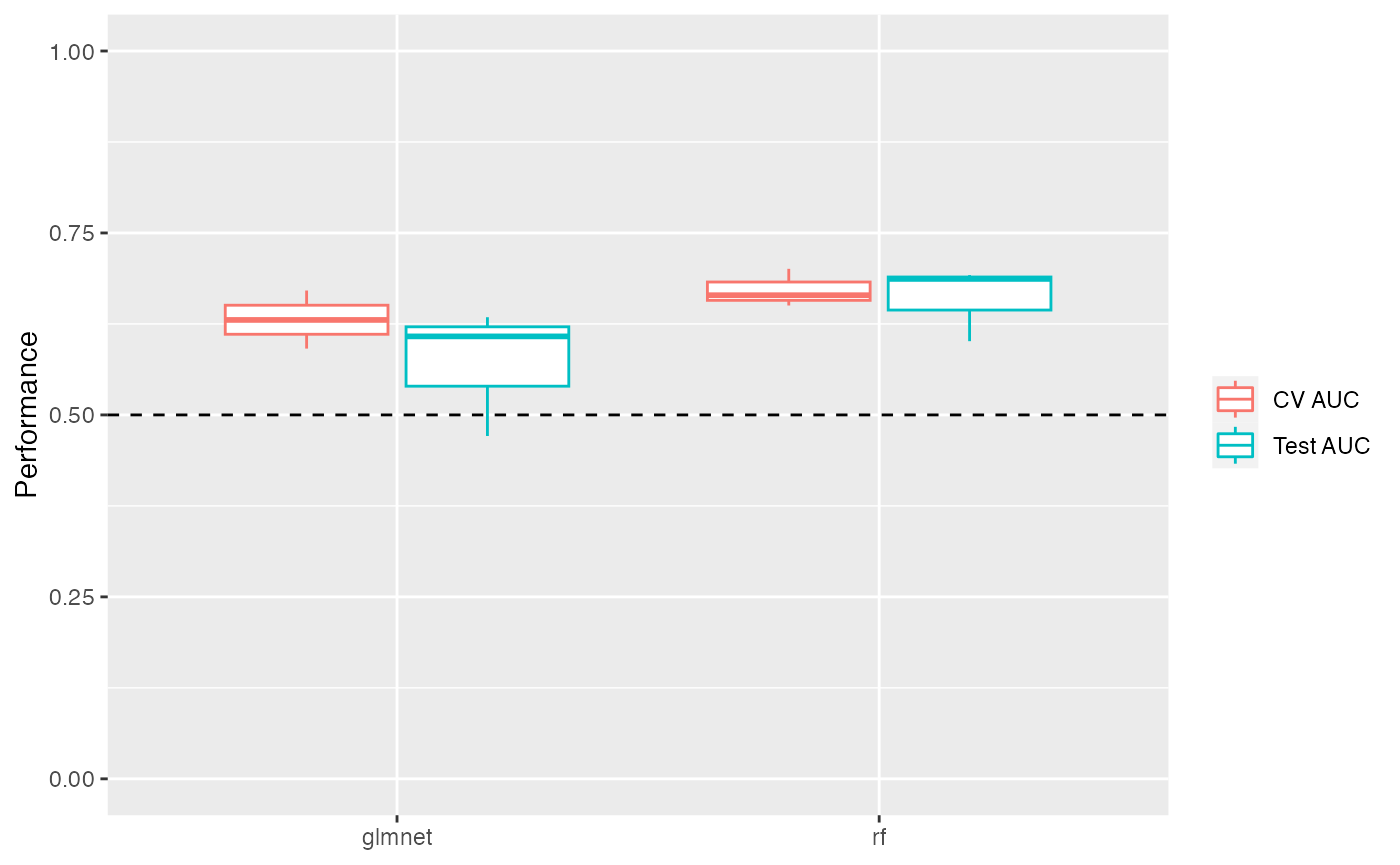
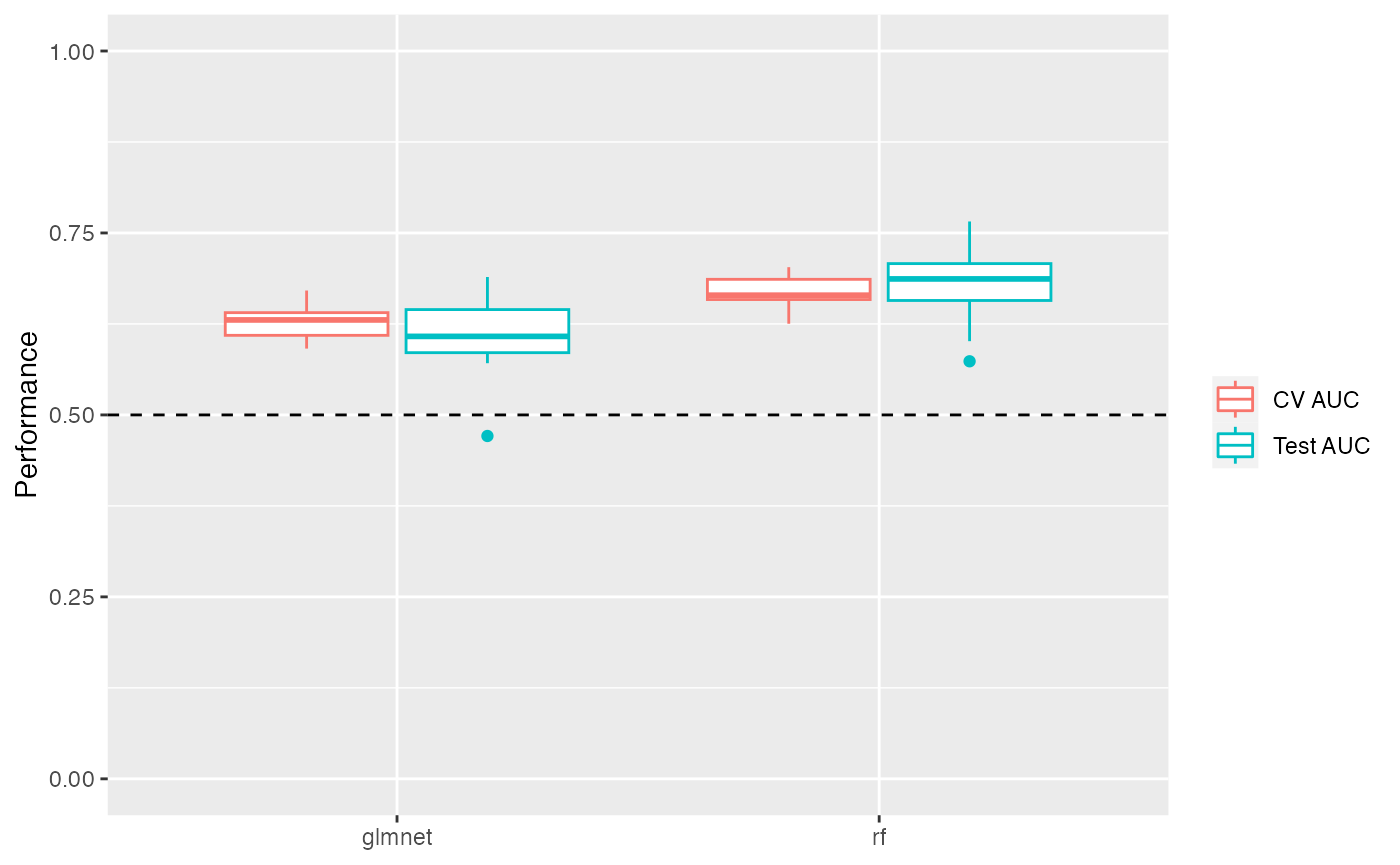
pkgdown::build_article('parallel')

diff --git a/docs/dev/articles/parallel.html b/docs/dev/articles/parallel.html
@@ -99,10 +99,11 @@ Sovacool</h4>
     
 <p>In this tutorial, we show how you can speed up pre-processing, model
 training, and feature importance steps for individual runs, as well as
-how to train multiple models in parallel within R. However, we highly
-recommend using a workflow manager such as Snakemake rather than
-parallelizing within a single R session. Jump to the section <a href="#parallelizing-with-snakemake">Parallelizing with Snakemake</a>
-below if you’re interested in skipping right to our best
+how to train multiple models in parallel within R and visualize the
+results. However, we highly recommend using a workflow manager such as
+Snakemake rather than parallelizing within a single R session. Jump to
+the section <a href="#parallelizing-with-snakemake">Parallelizing with
+Snakemake</a> below if you’re interested in skipping right to our best
 recommendation.</p>
 <div class="sourceCode" id="cb1"><pre class="downlit sourceCode r">
 <code class="sourceCode R"><span><span class="kw"><a href="https://rdrr.io/r/base/library.html" class="external-link">library</a></span><span class="op">(</span><span class="va"><a href="https://www.schlosslab.org/mikropml/" class="external-link">mikropml</a></span><span class="op">)</span></span>
@@ -138,18 +139,7 @@ cases.</p>
 they will run certain tasks in parallel.</p>
 <div class="sourceCode" id="cb3"><pre class="downlit sourceCode r">
 <code class="sourceCode R"><span><span class="va">otu_data_preproc</span> <span class="op">&lt;-</span> <span class="fu"><a href="../reference/preprocess_data.html">preprocess_data</a></span><span class="op">(</span><span class="va">otu_mini_bin</span>, <span class="st">"dx"</span><span class="op">)</span><span class="op">$</span><span class="va">dat_transformed</span></span>
-<span><span class="co">#&gt; Using 'dx' as the outcome column.</span></span>
-<span><span class="va">result1</span> <span class="op">&lt;-</span> <span class="fu"><a href="../reference/run_ml.html">run_ml</a></span><span class="op">(</span><span class="va">otu_data_preproc</span>, <span class="st">"glmnet"</span><span class="op">)</span></span>
-<span><span class="co">#&gt; Using 'dx' as the outcome column.</span></span>
-<span><span class="co">#&gt; Training the model...</span></span>
-<span><span class="co">#&gt; Loading required package: ggplot2</span></span>
-<span><span class="co">#&gt; Loading required package: lattice</span></span>
-<span><span class="co">#&gt; </span></span>
-<span><span class="co">#&gt; Attaching package: 'caret'</span></span>
-<span><span class="co">#&gt; The following object is masked from 'package:mikropml':</span></span>
-<span><span class="co">#&gt; </span></span>
-<span><span class="co">#&gt;     compare_models</span></span>
-<span><span class="co">#&gt; Training complete.</span></span></code></pre></div>
+<span><span class="va">result1</span> <span class="op">&lt;-</span> <span class="fu"><a href="../reference/run_ml.html">run_ml</a></span><span class="op">(</span><span class="va">otu_data_preproc</span>, <span class="st">"glmnet"</span>, seed <span class="op">=</span> <span class="fl">2019</span><span class="op">)</span></span></code></pre></div>
 <p>There’s a also a parallel version of the <code>rf</code> engine
 called <code>parRF</code> which trains the trees in the forest in
 parallel. See the <a href="https://topepo.github.io/caret/train-models-by-tag.html#Random_Forest" class="external-link">caret
@@ -167,16 +157,7 @@ multiple seeds using <code>future_lapply()</code>:</p>
 <code class="sourceCode R"><span><span class="co"># NOTE: use more seeds for real-world data</span></span>
 <span><span class="va">results_multi</span> <span class="op">&lt;-</span> <span class="fu">future.apply</span><span class="fu">::</span><span class="fu"><a href="https://future.apply.futureverse.org/reference/future_lapply.html" class="external-link">future_lapply</a></span><span class="op">(</span><span class="fu"><a href="https://rdrr.io/r/base/seq.html" class="external-link">seq</a></span><span class="op">(</span><span class="fl">100</span>, <span class="fl">102</span><span class="op">)</span>, <span class="kw">function</span><span class="op">(</span><span class="va">seed</span><span class="op">)</span> <span class="op">{</span></span>
 <span>  <span class="fu"><a href="../reference/run_ml.html">run_ml</a></span><span class="op">(</span><span class="va">otu_data_preproc</span>, <span class="st">"glmnet"</span>, seed <span class="op">=</span> <span class="va">seed</span><span class="op">)</span></span>
-<span><span class="op">}</span>, future.seed <span class="op">=</span> <span class="cn">TRUE</span><span class="op">)</span></span>
-<span><span class="co">#&gt; Using 'dx' as the outcome column.</span></span>
-<span><span class="co">#&gt; Training the model...</span></span>
-<span><span class="co">#&gt; Training complete.</span></span>
-<span><span class="co">#&gt; Using 'dx' as the outcome column.</span></span>
-<span><span class="co">#&gt; Training the model...</span></span>
-<span><span class="co">#&gt; Training complete.</span></span>
-<span><span class="co">#&gt; Using 'dx' as the outcome column.</span></span>
-<span><span class="co">#&gt; Training the model...</span></span>
-<span><span class="co">#&gt; Training complete.</span></span></code></pre></div>
+<span><span class="op">}</span>, future.seed <span class="op">=</span> <span class="cn">TRUE</span><span class="op">)</span></span></code></pre></div>
 <p>Each call to <code><a href="../reference/run_ml.html">run_ml()</a></code> with a different seed uses a
 different random split of the data into training and testing sets. Since
 we are using seeds, we must set <code>future.seed</code> to
@@ -190,7 +171,7 @@ performance.</p>
 <code>future.apply</code> package to <code><a href="../reference/run_ml.html">run_ml()</a></code> in parallel,
 but you can accomplish the same thing with parallel versions of the
 <code><a href="https://purrr.tidyverse.org/reference/map.html" class="external-link">purrr::map()</a></code> functions using the <code>furrr</code> package
-(e.g. <code>furrr::future_map_dfr()</code>).</p>
+(e.g. <code><a href="https://furrr.futureverse.org/reference/future_map.html" class="external-link">furrr::future_map_dfr()</a></code>).</p>
 <p>Extract the performance results and combine into one dataframe for
 all seeds:</p>
 <div class="sourceCode" id="cb5"><pre class="downlit sourceCode r">
@@ -218,7 +199,7 @@ all seeds:</p>
 <div class="sourceCode" id="cb6"><pre class="downlit sourceCode r">
 <code class="sourceCode R"><span><span class="co"># NOTE: use more seeds for real-world data</span></span>
 <span><span class="va">param_grid</span> <span class="op">&lt;-</span> <span class="fu"><a href="https://rdrr.io/r/base/expand.grid.html" class="external-link">expand.grid</a></span><span class="op">(</span></span>
-<span>  seeds <span class="op">=</span> <span class="fu"><a href="https://rdrr.io/r/base/seq.html" class="external-link">seq</a></span><span class="op">(</span><span class="fl">100</span>, <span class="fl">102</span><span class="op">)</span>,</span>
+<span>  seeds <span class="op">=</span> <span class="fu"><a href="https://rdrr.io/r/base/seq.html" class="external-link">seq</a></span><span class="op">(</span><span class="fl">100</span>, <span class="fl">110</span><span class="op">)</span>,</span>
 <span>  methods <span class="op">=</span> <span class="fu"><a href="https://rdrr.io/r/base/c.html" class="external-link">c</a></span><span class="op">(</span><span class="st">"glmnet"</span>, <span class="st">"rf"</span><span class="op">)</span></span>
 <span><span class="op">)</span></span>
 <span><span class="va">results_mtx</span> <span class="op">&lt;-</span> <span class="fu">future.apply</span><span class="fu">::</span><span class="fu"><a href="https://future.apply.futureverse.org/reference/future_mapply.html" class="external-link">future_mapply</a></span><span class="op">(</span></span>
@@ -228,70 +209,122 @@ all seeds:</p>
 <span>  <span class="va">param_grid</span><span class="op">$</span><span class="va">seeds</span>,</span>
 <span>  <span class="va">param_grid</span><span class="op">$</span><span class="va">methods</span> <span class="op"><a href="https://magrittr.tidyverse.org/reference/pipe.html" class="external-link">%&gt;%</a></span> <span class="fu"><a href="https://rdrr.io/r/base/character.html" class="external-link">as.character</a></span><span class="op">(</span><span class="op">)</span>,</span>
 <span>  future.seed <span class="op">=</span> <span class="cn">TRUE</span></span>
-<span><span class="op">)</span></span>
-<span><span class="co">#&gt; Using 'dx' as the outcome column.</span></span>
-<span><span class="co">#&gt; Training the model...</span></span>
-<span><span class="co">#&gt; Training complete.</span></span>
-<span><span class="co">#&gt; Finding feature importance...</span></span>
-<span><span class="co">#&gt; Feature importance complete.</span></span>
-<span><span class="co">#&gt; Using 'dx' as the outcome column.</span></span>
-<span><span class="co">#&gt; Training the model...</span></span>
-<span><span class="co">#&gt; Training complete.</span></span>
-<span><span class="co">#&gt; Finding feature importance...</span></span>
-<span><span class="co">#&gt; Feature importance complete.</span></span>
-<span><span class="co">#&gt; Using 'dx' as the outcome column.</span></span>
-<span><span class="co">#&gt; Training the model...</span></span>
-<span><span class="co">#&gt; Training complete.</span></span>
-<span><span class="co">#&gt; Finding feature importance...</span></span>
-<span><span class="co">#&gt; Feature importance complete.</span></span>
-<span><span class="co">#&gt; Using 'dx' as the outcome column.</span></span>
-<span><span class="co">#&gt; Training the model...</span></span>
-<span><span class="co">#&gt; Training complete.</span></span>
-<span><span class="co">#&gt; Finding feature importance...</span></span>
-<span><span class="co">#&gt; Feature importance complete.</span></span>
-<span><span class="co">#&gt; Using 'dx' as the outcome column.</span></span>
-<span><span class="co">#&gt; Training the model...</span></span>
-<span><span class="co">#&gt; Training complete.</span></span>
-<span><span class="co">#&gt; Finding feature importance...</span></span>
-<span><span class="co">#&gt; Feature importance complete.</span></span>
-<span><span class="co">#&gt; Using 'dx' as the outcome column.</span></span>
-<span><span class="co">#&gt; Training the model...</span></span>
-<span><span class="co">#&gt; Training complete.</span></span>
-<span><span class="co">#&gt; Finding feature importance...</span></span>
-<span><span class="co">#&gt; Feature importance complete.</span></span></code></pre></div>
-<p>Extract and combine the results for all seeds and methods:</p>
+<span><span class="op">)</span></span></code></pre></div>
+</div>
+<div class="section level3">
+<h3 id="visualize-the-results">Visualize the results<a class="anchor" aria-label="anchor" href="#visualize-the-results"></a>
+</h3>
+<p><code>ggplot2</code> is required to use our plotting functions below.
+You can also create your own plots however you like using the results
+data.</p>
+<div class="section level4">
+<h4 id="performance">Performance<a class="anchor" aria-label="anchor" href="#performance"></a>
+</h4>
+<div class="section level5">
+<h5 id="mean-auc">Mean AUC<a class="anchor" aria-label="anchor" href="#mean-auc"></a>
+</h5>
 <div class="sourceCode" id="cb7"><pre class="downlit sourceCode r">
-<code class="sourceCode R"><span><span class="va">perf_df</span> <span class="op">&lt;-</span> <span class="fu"><a href="https://rdrr.io/r/base/lapply.html" class="external-link">lapply</a></span><span class="op">(</span></span>
+<code class="sourceCode R"><span><span class="kw"><a href="https://rdrr.io/r/base/library.html" class="external-link">library</a></span><span class="op">(</span><span class="va"><a href="https://ggplot2.tidyverse.org" class="external-link">ggplot2</a></span><span class="op">)</span></span>
+<span></span>
+<span><span class="va">perf_df</span> <span class="op">&lt;-</span> <span class="fu"><a href="https://rdrr.io/r/base/lapply.html" class="external-link">lapply</a></span><span class="op">(</span></span>
 <span>  <span class="va">results_mtx</span><span class="op">[</span><span class="st">"performance"</span>, <span class="op">]</span>,</span>
 <span>  <span class="kw">function</span><span class="op">(</span><span class="va">x</span><span class="op">)</span> <span class="op">{</span></span>
 <span>    <span class="va">x</span> <span class="op"><a href="https://magrittr.tidyverse.org/reference/pipe.html" class="external-link">%&gt;%</a></span> <span class="fu"><a href="https://dplyr.tidyverse.org/reference/select.html" class="external-link">select</a></span><span class="op">(</span><span class="va">cv_metric_AUC</span>, <span class="va">AUC</span>, <span class="va">method</span><span class="op">)</span></span>
 <span>  <span class="op">}</span></span>
 <span><span class="op">)</span> <span class="op"><a href="https://magrittr.tidyverse.org/reference/pipe.html" class="external-link">%&gt;%</a></span></span>
 <span>  <span class="fu">dplyr</span><span class="fu">::</span><span class="fu"><a href="https://dplyr.tidyverse.org/reference/bind.html" class="external-link">bind_rows</a></span><span class="op">(</span><span class="op">)</span></span>
-<span><span class="va">feat_df</span> <span class="op">&lt;-</span> <span class="va">results_mtx</span><span class="op">[</span><span class="st">"feature_importance"</span>, <span class="op">]</span> <span class="op"><a href="https://magrittr.tidyverse.org/reference/pipe.html" class="external-link">%&gt;%</a></span></span>
-<span>  <span class="fu">dplyr</span><span class="fu">::</span><span class="fu"><a href="https://dplyr.tidyverse.org/reference/bind.html" class="external-link">bind_rows</a></span><span class="op">(</span><span class="op">)</span></span></code></pre></div>
-</div>
-<div class="section level3">
-<h3 id="visualize-the-results">Visualize the results<a class="anchor" aria-label="anchor" href="#visualize-the-results"></a>
-</h3>
-<p><code>ggplot2</code> is required to use our plotting functions below.
-You can also create your own plots however you like using the
-results.</p>
-<div class="section level4">
-<h4 id="performance">Performance<a class="anchor" aria-label="anchor" href="#performance"></a>
-</h4>
-<div class="sourceCode" id="cb8"><pre class="downlit sourceCode r">
-<code class="sourceCode R"><span><span class="va">perf_boxplot</span> <span class="op">&lt;-</span> <span class="fu"><a href="../reference/plot_model_performance.html">plot_model_performance</a></span><span class="op">(</span><span class="va">perf_df</span><span class="op">)</span></span>
+<span></span>
+<span><span class="va">perf_boxplot</span> <span class="op">&lt;-</span> <span class="fu"><a href="../reference/plot_model_performance.html">plot_model_performance</a></span><span class="op">(</span><span class="va">perf_df</span><span class="op">)</span></span>
 <span><span class="va">perf_boxplot</span></span></code></pre></div>
 <p><img src="parallel_files/figure-html/plot_perf-1.png" width="700"></p>
 <p><code><a href="../reference/plot_model_performance.html">plot_model_performance()</a></code> returns a ggplot2 object. You
 can add layers to customize the plot:</p>
-<div class="sourceCode" id="cb9"><pre class="downlit sourceCode r">
+<div class="sourceCode" id="cb8"><pre class="downlit sourceCode r">
 <code class="sourceCode R"><span><span class="va">perf_boxplot</span> <span class="op">+</span></span>
-<span>  <span class="fu">theme_classic</span><span class="op">(</span><span class="op">)</span> <span class="op">+</span></span>
-<span>  <span class="fu">scale_color_brewer</span><span class="op">(</span>palette <span class="op">=</span> <span class="st">"Dark2"</span><span class="op">)</span> <span class="op">+</span></span>
-<span>  <span class="fu">coord_flip</span><span class="op">(</span><span class="op">)</span></span></code></pre></div>
+<span>  <span class="fu"><a href="https://ggplot2.tidyverse.org/reference/ggtheme.html" class="external-link">theme_classic</a></span><span class="op">(</span><span class="op">)</span> <span class="op">+</span></span>
+<span>  <span class="fu"><a href="https://ggplot2.tidyverse.org/reference/scale_brewer.html" class="external-link">scale_color_brewer</a></span><span class="op">(</span>palette <span class="op">=</span> <span class="st">"Dark2"</span><span class="op">)</span> <span class="op">+</span></span>
+<span>  <span class="fu"><a href="https://ggplot2.tidyverse.org/reference/coord_flip.html" class="external-link">coord_flip</a></span><span class="op">(</span><span class="op">)</span></span></code></pre></div>
 <p><img src="parallel_files/figure-html/customize_perf_plot-1.png" width="700"></p>
+</div>
+<div class="section level5">
+<h5 id="roc-and-prc-curves">ROC and PRC curves<a class="anchor" aria-label="anchor" href="#roc-and-prc-curves"></a>
+</h5>
+<p>First calculate the sensitivity, specificity, and precision for all
+models.</p>
+<div class="sourceCode" id="cb9"><pre class="downlit sourceCode r">
+<code class="sourceCode R"><span><span class="va">get_sensspec_seed</span> <span class="op">&lt;-</span> <span class="kw">function</span><span class="op">(</span><span class="va">colnum</span><span class="op">)</span> <span class="op">{</span></span>
+<span>  <span class="va">result</span> <span class="op">&lt;-</span> <span class="va">results_mtx</span><span class="op">[</span>, <span class="va">colnum</span><span class="op">]</span></span>
+<span>  <span class="va">trained_model</span> <span class="op">&lt;-</span> <span class="va">result</span><span class="op">$</span><span class="va">trained_model</span></span>
+<span>  <span class="va">test_data</span> <span class="op">&lt;-</span> <span class="va">result</span><span class="op">$</span><span class="va">test_data</span></span>
+<span>  <span class="va">seed</span> <span class="op">&lt;-</span> <span class="va">result</span><span class="op">$</span><span class="va">performance</span><span class="op">$</span><span class="va">seed</span></span>
+<span>  <span class="va">method</span> <span class="op">&lt;-</span> <span class="va">result</span><span class="op">$</span><span class="va">trained_model</span><span class="op">$</span><span class="va">method</span></span>
+<span>  <span class="va">sensspec</span> <span class="op">&lt;-</span> <span class="fu"><a href="../reference/sensspec.html">calc_model_sensspec</a></span><span class="op">(</span></span>
+<span>    <span class="va">trained_model</span>,</span>
+<span>    <span class="va">test_data</span>,</span>
+<span>    <span class="st">"dx"</span>, <span class="st">"cancer"</span></span>
+<span>  <span class="op">)</span> <span class="op"><a href="https://magrittr.tidyverse.org/reference/pipe.html" class="external-link">%&gt;%</a></span></span>
+<span>    <span class="fu"><a href="https://dplyr.tidyverse.org/reference/mutate.html" class="external-link">mutate</a></span><span class="op">(</span>seed <span class="op">=</span> <span class="va">seed</span>, method <span class="op">=</span> <span class="va">method</span><span class="op">)</span></span>
+<span>  <span class="kw"><a href="https://rdrr.io/r/base/function.html" class="external-link">return</a></span><span class="op">(</span><span class="va">sensspec</span><span class="op">)</span></span>
+<span><span class="op">}</span></span>
+<span><span class="va">sensspec_dat</span> <span class="op">&lt;-</span> <span class="fu">purrr</span><span class="fu">::</span><span class="fu"><a href="https://purrr.tidyverse.org/reference/map_dfr.html" class="external-link">map_dfr</a></span><span class="op">(</span></span>
+<span>  <span class="fu"><a href="https://rdrr.io/r/base/seq.html" class="external-link">seq</a></span><span class="op">(</span><span class="fl">1</span>, <span class="fu"><a href="https://rdrr.io/r/base/dim.html" class="external-link">dim</a></span><span class="op">(</span><span class="va">results_mtx</span><span class="op">)</span><span class="op">[</span><span class="fl">2</span><span class="op">]</span><span class="op">)</span>,</span>
+<span>  <span class="va">get_sensspec_seed</span></span>
+<span><span class="op">)</span></span></code></pre></div>
+<div class="section level6">
+<h6 id="plot-curves-for-a-single-model">Plot curves for a single model<a class="anchor" aria-label="anchor" href="#plot-curves-for-a-single-model"></a>
+</h6>
+<div class="sourceCode" id="cb10"><pre class="downlit sourceCode r">
+<code class="sourceCode R"><span><span class="va">sensspec_1</span> <span class="op">&lt;-</span> <span class="va">sensspec_dat</span> <span class="op"><a href="https://magrittr.tidyverse.org/reference/pipe.html" class="external-link">%&gt;%</a></span> <span class="fu"><a href="https://dplyr.tidyverse.org/reference/filter.html" class="external-link">filter</a></span><span class="op">(</span><span class="va">seed</span> <span class="op">==</span> <span class="fl">100</span>, <span class="va">method</span> <span class="op">==</span> <span class="st">"glmnet"</span><span class="op">)</span></span>
+<span><span class="va">sensspec_1</span> <span class="op"><a href="https://magrittr.tidyverse.org/reference/pipe.html" class="external-link">%&gt;%</a></span></span>
+<span>  <span class="fu"><a href="https://ggplot2.tidyverse.org/reference/ggplot.html" class="external-link">ggplot</a></span><span class="op">(</span><span class="fu"><a href="https://ggplot2.tidyverse.org/reference/aes.html" class="external-link">aes</a></span><span class="op">(</span>x <span class="op">=</span> <span class="va">specificity</span>, y <span class="op">=</span> <span class="va">sensitivity</span>, <span class="op">)</span><span class="op">)</span> <span class="op">+</span></span>
+<span>  <span class="fu"><a href="https://ggplot2.tidyverse.org/reference/geom_path.html" class="external-link">geom_line</a></span><span class="op">(</span><span class="op">)</span> <span class="op">+</span></span>
+<span>  <span class="fu"><a href="https://ggplot2.tidyverse.org/reference/geom_abline.html" class="external-link">geom_abline</a></span><span class="op">(</span></span>
+<span>    intercept <span class="op">=</span> <span class="fl">1</span>, slope <span class="op">=</span> <span class="fl">1</span>,</span>
+<span>    linetype <span class="op">=</span> <span class="st">"dashed"</span>, color <span class="op">=</span> <span class="st">"grey50"</span></span>
+<span>  <span class="op">)</span> <span class="op">+</span></span>
+<span>  <span class="fu"><a href="https://ggplot2.tidyverse.org/reference/coord_fixed.html" class="external-link">coord_equal</a></span><span class="op">(</span><span class="op">)</span> <span class="op">+</span></span>
+<span>  <span class="fu"><a href="https://ggplot2.tidyverse.org/reference/scale_continuous.html" class="external-link">scale_x_reverse</a></span><span class="op">(</span>expand <span class="op">=</span> <span class="fu"><a href="https://rdrr.io/r/base/c.html" class="external-link">c</a></span><span class="op">(</span><span class="fl">0</span>, <span class="fl">0</span><span class="op">)</span>, limits <span class="op">=</span> <span class="fu"><a href="https://rdrr.io/r/base/c.html" class="external-link">c</a></span><span class="op">(</span><span class="fl">1.01</span>, <span class="op">-</span><span class="fl">0.01</span><span class="op">)</span><span class="op">)</span> <span class="op">+</span></span>
+<span>  <span class="fu"><a href="https://ggplot2.tidyverse.org/reference/scale_continuous.html" class="external-link">scale_y_continuous</a></span><span class="op">(</span>expand <span class="op">=</span> <span class="fu"><a href="https://rdrr.io/r/base/c.html" class="external-link">c</a></span><span class="op">(</span><span class="fl">0</span>, <span class="fl">0</span><span class="op">)</span>, limits <span class="op">=</span> <span class="fu"><a href="https://rdrr.io/r/base/c.html" class="external-link">c</a></span><span class="op">(</span><span class="op">-</span><span class="fl">0.01</span>, <span class="fl">1.01</span><span class="op">)</span><span class="op">)</span> <span class="op">+</span></span>
+<span>  <span class="fu"><a href="https://ggplot2.tidyverse.org/reference/labs.html" class="external-link">labs</a></span><span class="op">(</span>x <span class="op">=</span> <span class="st">"Specificity"</span>, y <span class="op">=</span> <span class="st">"Sensitivity"</span><span class="op">)</span> <span class="op">+</span></span>
+<span>  <span class="fu"><a href="https://ggplot2.tidyverse.org/reference/ggtheme.html" class="external-link">theme_bw</a></span><span class="op">(</span><span class="op">)</span> <span class="op">+</span></span>
+<span>  <span class="fu"><a href="https://ggplot2.tidyverse.org/reference/theme.html" class="external-link">theme</a></span><span class="op">(</span>legend.title <span class="op">=</span> <span class="fu"><a href="https://ggplot2.tidyverse.org/reference/element.html" class="external-link">element_blank</a></span><span class="op">(</span><span class="op">)</span><span class="op">)</span></span></code></pre></div>
+<p><img src="parallel_files/figure-html/plot_curves_one_model-1.png" width="700"></p>
+<div class="sourceCode" id="cb11"><pre class="downlit sourceCode r">
+<code class="sourceCode R"><span></span>
+<span><span class="va">baseline_precision_otu</span> <span class="op">&lt;-</span> <span class="fu"><a href="../reference/calc_baseline_precision.html">calc_baseline_precision</a></span><span class="op">(</span><span class="va">otu_data_preproc</span>, </span>
+<span>                                                  <span class="st">"dx"</span>, <span class="st">"cancer"</span><span class="op">)</span></span>
+<span><span class="va">sensspec_1</span> <span class="op"><a href="https://magrittr.tidyverse.org/reference/pipe.html" class="external-link">%&gt;%</a></span></span>
+<span>  <span class="fu"><a href="https://dplyr.tidyverse.org/reference/rename.html" class="external-link">rename</a></span><span class="op">(</span>recall <span class="op">=</span> <span class="va">sensitivity</span><span class="op">)</span> <span class="op"><a href="https://magrittr.tidyverse.org/reference/pipe.html" class="external-link">%&gt;%</a></span></span>
+<span>  <span class="fu"><a href="https://ggplot2.tidyverse.org/reference/ggplot.html" class="external-link">ggplot</a></span><span class="op">(</span><span class="fu"><a href="https://ggplot2.tidyverse.org/reference/aes.html" class="external-link">aes</a></span><span class="op">(</span>x <span class="op">=</span> <span class="va">recall</span>, y <span class="op">=</span> <span class="va">precision</span>, <span class="op">)</span><span class="op">)</span> <span class="op">+</span></span>
+<span>  <span class="fu"><a href="https://ggplot2.tidyverse.org/reference/geom_path.html" class="external-link">geom_line</a></span><span class="op">(</span><span class="op">)</span> <span class="op">+</span></span>
+<span>  <span class="fu"><a href="https://ggplot2.tidyverse.org/reference/geom_abline.html" class="external-link">geom_hline</a></span><span class="op">(</span></span>
+<span>    yintercept <span class="op">=</span> <span class="va">baseline_precision_otu</span>,</span>
+<span>    linetype <span class="op">=</span> <span class="st">"dashed"</span>, color <span class="op">=</span> <span class="st">"grey50"</span></span>
+<span>  <span class="op">)</span> <span class="op">+</span></span>
+<span>  <span class="fu"><a href="https://ggplot2.tidyverse.org/reference/coord_fixed.html" class="external-link">coord_equal</a></span><span class="op">(</span><span class="op">)</span> <span class="op">+</span></span>
+<span>  <span class="fu"><a href="https://ggplot2.tidyverse.org/reference/scale_continuous.html" class="external-link">scale_x_continuous</a></span><span class="op">(</span>expand <span class="op">=</span> <span class="fu"><a href="https://rdrr.io/r/base/c.html" class="external-link">c</a></span><span class="op">(</span><span class="fl">0</span>, <span class="fl">0</span><span class="op">)</span>, limits <span class="op">=</span> <span class="fu"><a href="https://rdrr.io/r/base/c.html" class="external-link">c</a></span><span class="op">(</span><span class="op">-</span><span class="fl">0.01</span>, <span class="fl">1.01</span><span class="op">)</span><span class="op">)</span> <span class="op">+</span></span>
+<span>  <span class="fu"><a href="https://ggplot2.tidyverse.org/reference/scale_continuous.html" class="external-link">scale_y_continuous</a></span><span class="op">(</span>expand <span class="op">=</span> <span class="fu"><a href="https://rdrr.io/r/base/c.html" class="external-link">c</a></span><span class="op">(</span><span class="fl">0</span>, <span class="fl">0</span><span class="op">)</span>, limits <span class="op">=</span> <span class="fu"><a href="https://rdrr.io/r/base/c.html" class="external-link">c</a></span><span class="op">(</span><span class="op">-</span><span class="fl">0.01</span>, <span class="fl">1.01</span><span class="op">)</span><span class="op">)</span> <span class="op">+</span></span>
+<span>  <span class="fu"><a href="https://ggplot2.tidyverse.org/reference/labs.html" class="external-link">labs</a></span><span class="op">(</span>x <span class="op">=</span> <span class="st">"Recall"</span>, y <span class="op">=</span> <span class="st">"Precision"</span><span class="op">)</span> <span class="op">+</span></span>
+<span>  <span class="fu"><a href="https://ggplot2.tidyverse.org/reference/ggtheme.html" class="external-link">theme_bw</a></span><span class="op">(</span><span class="op">)</span> <span class="op">+</span></span>
+<span>  <span class="fu"><a href="https://ggplot2.tidyverse.org/reference/theme.html" class="external-link">theme</a></span><span class="op">(</span>legend.title <span class="op">=</span> <span class="fu"><a href="https://ggplot2.tidyverse.org/reference/element.html" class="external-link">element_blank</a></span><span class="op">(</span><span class="op">)</span><span class="op">)</span></span></code></pre></div>
+<p><img src="parallel_files/figure-html/plot_curves_one_model-2.png" width="700"></p>
+</div>
+<div class="section level6">
+<h6 id="plot-mean-roc-and-prc-for-all-models">Plot mean ROC and PRC for all models<a class="anchor" aria-label="anchor" href="#plot-mean-roc-and-prc-for-all-models"></a>
+</h6>
+<div class="sourceCode" id="cb12"><pre class="downlit sourceCode r">
+<code class="sourceCode R"><span><span class="va">sensspec_dat</span> <span class="op"><a href="https://magrittr.tidyverse.org/reference/pipe.html" class="external-link">%&gt;%</a></span></span>
+<span>  <span class="fu"><a href="../reference/sensspec.html">calc_mean_roc</a></span><span class="op">(</span><span class="op">)</span> <span class="op"><a href="https://magrittr.tidyverse.org/reference/pipe.html" class="external-link">%&gt;%</a></span></span>
+<span>  <span class="fu"><a href="../reference/plot_curves.html">plot_mean_roc</a></span><span class="op">(</span><span class="op">)</span></span></code></pre></div>
+<p><img src="parallel_files/figure-html/plot_roc_prc-1.png" width="700"></p>
+<div class="sourceCode" id="cb13"><pre class="downlit sourceCode r">
+<code class="sourceCode R"><span></span>
+<span><span class="va">sensspec_dat</span> <span class="op"><a href="https://magrittr.tidyverse.org/reference/pipe.html" class="external-link">%&gt;%</a></span></span>
+<span>  <span class="fu"><a href="../reference/sensspec.html">calc_mean_prc</a></span><span class="op">(</span><span class="op">)</span> <span class="op"><a href="https://magrittr.tidyverse.org/reference/pipe.html" class="external-link">%&gt;%</a></span></span>
+<span>  <span class="fu"><a href="../reference/plot_curves.html">plot_mean_prc</a></span><span class="op">(</span>baseline_precision <span class="op">=</span> <span class="va">baseline_precision_otu</span><span class="op">)</span></span></code></pre></div>
+<p><img src="parallel_files/figure-html/plot_roc_prc-2.png" width="700"></p>
+</div>
+</div>
 </div>
 <div class="section level4">
 <h4 id="feature-importance">Feature importance<a class="anchor" aria-label="anchor" href="#feature-importance"></a>
@@ -306,8 +339,11 @@ features that resulted in the largest <strong>decrease</strong> in
 performance when permuted are the most important features.</p>
 <p>You can select the top n most important features for your models and
 plot them like so:</p>
-<div class="sourceCode" id="cb10"><pre class="downlit sourceCode r">
-<code class="sourceCode R"><span><span class="va">top_n</span> <span class="op">&lt;-</span> <span class="fl">5</span></span>
+<div class="sourceCode" id="cb14"><pre class="downlit sourceCode r">
+<code class="sourceCode R"><span><span class="va">feat_df</span> <span class="op">&lt;-</span> <span class="va">results_mtx</span><span class="op">[</span><span class="st">"feature_importance"</span>, <span class="op">]</span> <span class="op"><a href="https://magrittr.tidyverse.org/reference/pipe.html" class="external-link">%&gt;%</a></span></span>
+<span>  <span class="fu">dplyr</span><span class="fu">::</span><span class="fu"><a href="https://dplyr.tidyverse.org/reference/bind.html" class="external-link">bind_rows</a></span><span class="op">(</span><span class="op">)</span></span>
+<span></span>
+<span><span class="va">top_n</span> <span class="op">&lt;-</span> <span class="fl">5</span></span>
 <span><span class="va">top_feats</span> <span class="op">&lt;-</span> <span class="va">feat_df</span> <span class="op"><a href="https://magrittr.tidyverse.org/reference/pipe.html" class="external-link">%&gt;%</a></span></span>
 <span>  <span class="fu"><a href="https://dplyr.tidyverse.org/reference/group_by.html" class="external-link">group_by</a></span><span class="op">(</span><span class="va">method</span>, <span class="va">names</span><span class="op">)</span> <span class="op"><a href="https://magrittr.tidyverse.org/reference/pipe.html" class="external-link">%&gt;%</a></span></span>
 <span>  <span class="fu"><a href="https://dplyr.tidyverse.org/reference/summarise.html" class="external-link">summarize</a></span><span class="op">(</span>median_diff <span class="op">=</span> <span class="fu"><a href="https://rdrr.io/r/stats/median.html" class="external-link">median</a></span><span class="op">(</span><span class="va">perf_metric_diff</span><span class="op">)</span><span class="op">)</span> <span class="op"><a href="https://magrittr.tidyverse.org/reference/pipe.html" class="external-link">%&gt;%</a></span></span>
@@ -319,9 +355,9 @@ plot them like so:</p>
 <span><span class="va">feat_df</span> <span class="op"><a href="https://magrittr.tidyverse.org/reference/pipe.html" class="external-link">%&gt;%</a></span></span>
 <span>  <span class="fu"><a href="https://dplyr.tidyverse.org/reference/mutate-joins.html" class="external-link">right_join</a></span><span class="op">(</span><span class="va">top_feats</span>, by <span class="op">=</span> <span class="fu"><a href="https://rdrr.io/r/base/c.html" class="external-link">c</a></span><span class="op">(</span><span class="st">"method"</span>, <span class="st">"names"</span><span class="op">)</span><span class="op">)</span> <span class="op"><a href="https://magrittr.tidyverse.org/reference/pipe.html" class="external-link">%&gt;%</a></span></span>
 <span>  <span class="fu"><a href="https://dplyr.tidyverse.org/reference/mutate.html" class="external-link">mutate</a></span><span class="op">(</span>features <span class="op">=</span> <span class="fu"><a href="https://rdrr.io/r/base/factor.html" class="external-link">factor</a></span><span class="op">(</span><span class="va">names</span>, levels <span class="op">=</span> <span class="fu"><a href="https://rdrr.io/r/base/rev.html" class="external-link">rev</a></span><span class="op">(</span><span class="fu"><a href="https://rdrr.io/r/base/unique.html" class="external-link">unique</a></span><span class="op">(</span><span class="va">top_feats</span><span class="op">$</span><span class="va">names</span><span class="op">)</span><span class="op">)</span><span class="op">)</span><span class="op">)</span> <span class="op"><a href="https://magrittr.tidyverse.org/reference/pipe.html" class="external-link">%&gt;%</a></span></span>
-<span>  <span class="fu">ggplot</span><span class="op">(</span><span class="fu">aes</span><span class="op">(</span>x <span class="op">=</span> <span class="va">perf_metric_diff</span>, y <span class="op">=</span> <span class="va">features</span>, color <span class="op">=</span> <span class="va">method</span><span class="op">)</span><span class="op">)</span> <span class="op">+</span></span>
-<span>  <span class="fu">geom_boxplot</span><span class="op">(</span><span class="op">)</span> <span class="op">+</span></span>
-<span>  <span class="fu">theme_bw</span><span class="op">(</span><span class="op">)</span></span></code></pre></div>
+<span>  <span class="fu"><a href="https://ggplot2.tidyverse.org/reference/ggplot.html" class="external-link">ggplot</a></span><span class="op">(</span><span class="fu"><a href="https://ggplot2.tidyverse.org/reference/aes.html" class="external-link">aes</a></span><span class="op">(</span>x <span class="op">=</span> <span class="va">perf_metric_diff</span>, y <span class="op">=</span> <span class="va">features</span>, color <span class="op">=</span> <span class="va">method</span><span class="op">)</span><span class="op">)</span> <span class="op">+</span></span>
+<span>  <span class="fu"><a href="https://ggplot2.tidyverse.org/reference/geom_boxplot.html" class="external-link">geom_boxplot</a></span><span class="op">(</span><span class="op">)</span> <span class="op">+</span></span>
+<span>  <span class="fu"><a href="https://ggplot2.tidyverse.org/reference/ggtheme.html" class="external-link">theme_bw</a></span><span class="op">(</span><span class="op">)</span></span></code></pre></div>
 <p><img src="parallel_files/figure-html/feat_imp_plot-1.png" width="700"></p>
 <p>See the docs for <code><a href="../reference/get_feature_importance.html">get_feature_importance()</a></code> for more
 details on how these values are computed.</p>
@@ -335,7 +371,7 @@ details on how these values are computed.</p>
 <code><a href="../reference/get_feature_importance.html">get_feature_importance()</a></code> support reporting live progress
 updates using the <code>progressr</code> package. The format is up to
 you, but we recommend using a progress bar like this:</p>
-<div class="sourceCode" id="cb11"><pre class="downlit sourceCode r">
+<div class="sourceCode" id="cb15"><pre class="downlit sourceCode r">
 <code class="sourceCode R"><span><span class="co"># optionally, specify the progress bar format with the `progress` package.</span></span>
 <span><span class="fu">progressr</span><span class="fu">::</span><span class="fu"><a href="https://progressr.futureverse.org/reference/handlers.html" class="external-link">handlers</a></span><span class="op">(</span><span class="fu">progressr</span><span class="fu">::</span><span class="fu"><a href="https://progressr.futureverse.org/reference/handler_progress.html" class="external-link">handler_progress</a></span><span class="op">(</span></span>
 <span>  format <span class="op">=</span> <span class="st">":message :bar :percent | elapsed: :elapsed | eta: :eta"</span>,</span>
